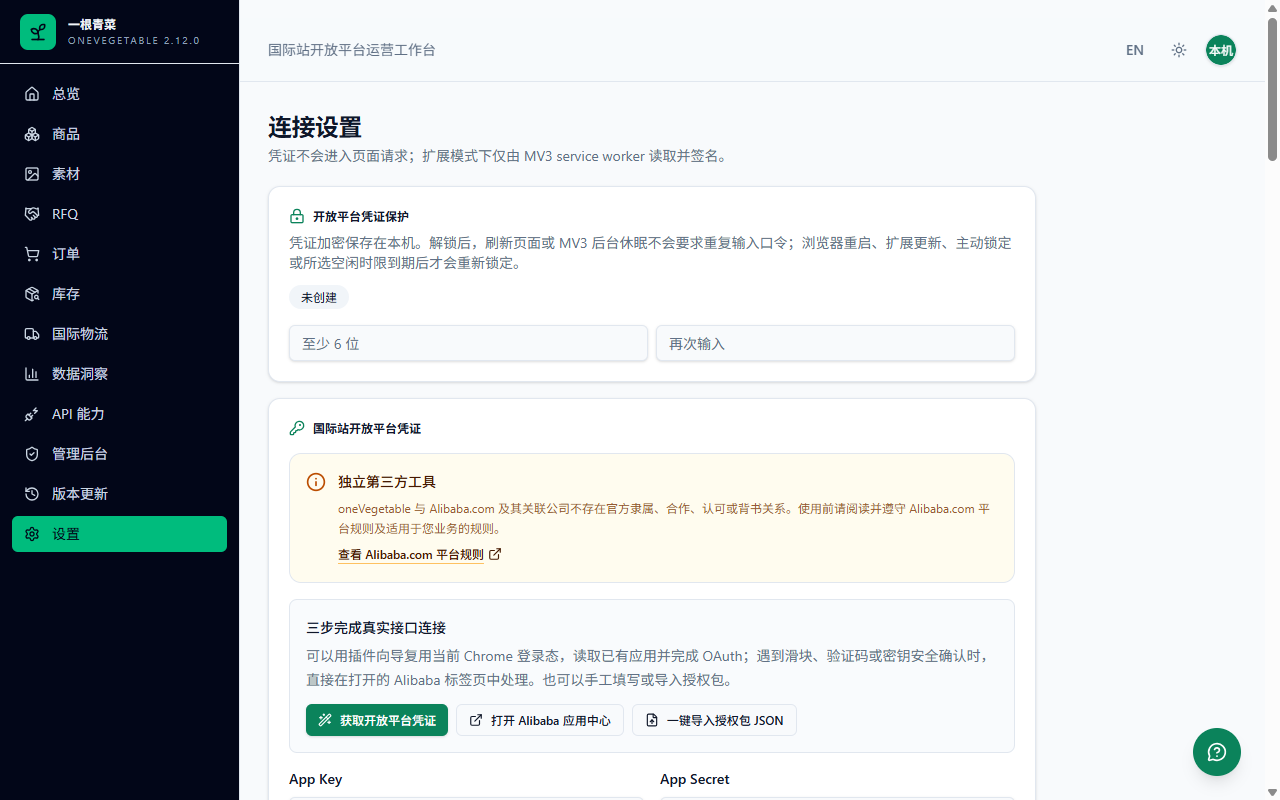
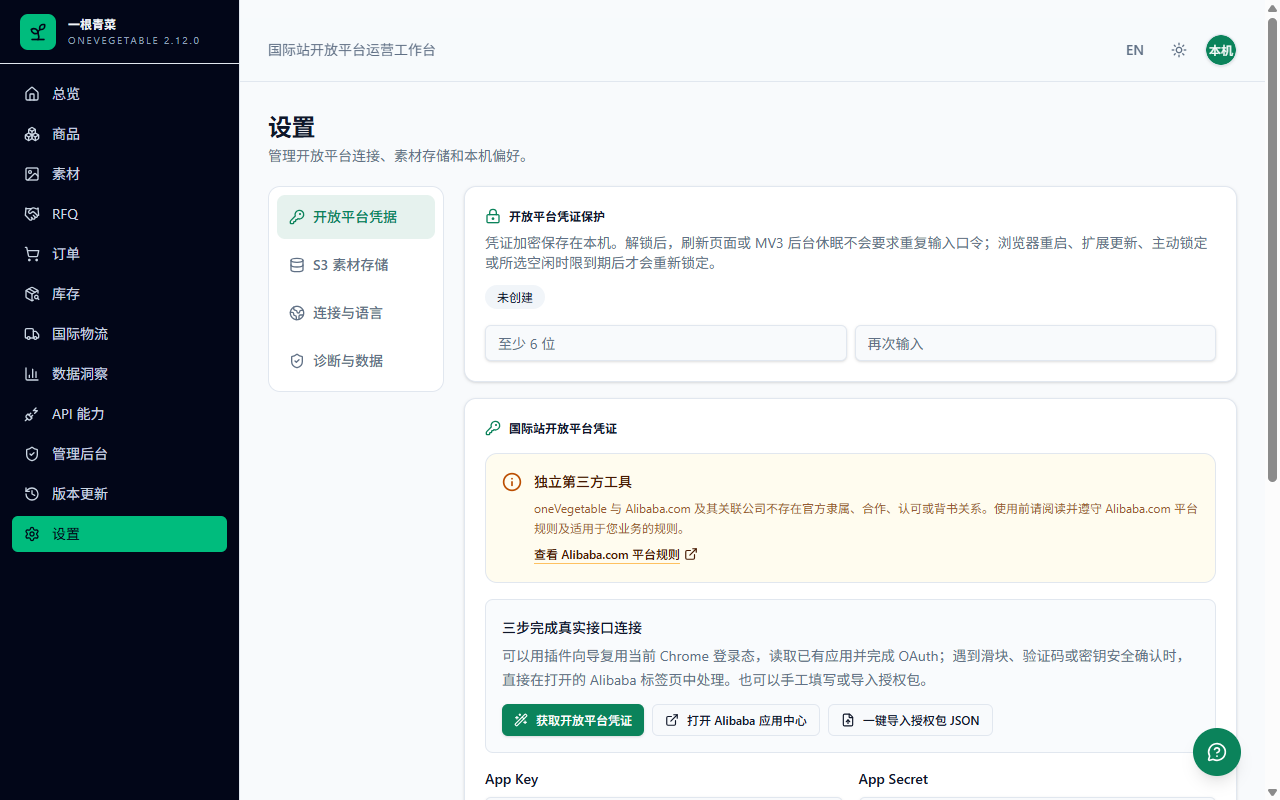
chore(release): refresh 2.12.0 package and settings screenshots

diff --git a/docs/release-2.12.0-readiness.md b/docs/release-2.12.0-readiness.md
@@ -1,10 +1,11 @@
 # 2.12.0 发布准备
 
-检查日期：2026-09-23。范围：列表、素材、库存与编辑体验优化。
+检查日期：2026-09-23。范围：列表、素材、库存与编辑体验优化，以及设置页分区排版。
 
 ## 功能与安全边界
 
 - 统一列表搜索、筛选弹窗、三态选择、列显隐/排序与行操作菜单；列偏好保存在本机，选中记录不持久化。
+- 设置页按开放平台凭据、S3 存储、连接与语言、诊断与数据分区，切换保留未保存输入；整理双列表单、折叠导入规则，并修复初始化数据迟到覆盖输入的问题。中英文设置截图同步更新。
 - 库存成为独立工作区；产品分按可见区域加载；商品上下架回执统一进入任务中心。
 - “素材”包括图片与视频，复用全屏预览和信息面板；图片仅点缩略图或预览操作才打开，服务端分页支持未知总数。
 - 编辑不再自动保存或恢复商品/RFQ 本地草稿；离开有修改的表单需要确认。旧编辑数据不读取、不自动删除；批量队列、平台草稿与任务不受影响。
@@ -26,13 +27,14 @@
 - [x] 六个 workspace package、扩展 Manifest 来源和双语版本说明统一为 2.12.0。
 - [x] Worker/D1：6 文件、21 项本地隔离测试通过。
 - [x] 2.11.0 → 2.12.0：17 项升级检查通过。
-- [x] Windows `pnpm check`：格式、Lint（0 error / 28 warning）、i18n、契约漂移、134 项离线审计、50/50 replay、类型、263 文件 / 1,638 项单测及三端构建通过。
-- [x] 最终 Web/正式 MV3：91 项通过；BFF replay：2 项通过；Node 凭据双语：2 项通过。模板完整操作链另连续运行 5 次通过。
+- [x] 首次 Windows `pnpm check`：格式、Lint（0 error / 28 warning）、i18n、契约漂移、134 项离线审计、50/50 replay、类型、263 文件 / 1,638 项单测及三端构建通过。
+- [x] 设置页更新后重新执行格式、Lint（0 error / 28 warning）、i18n、类型检查、263 文件 / 1,640 项全量单测、Web/正式扩展构建及包体/合规检查，全部通过。
+- [x] 设置页更新后的最终 Web/正式 MV3：92 项通过；Node 凭据双语重新运行 2 项通过；此前 BFF replay：2 项通过。模板完整操作链另连续运行 5 次通过。
 - [x] 正式 ZIP、校验和、无凭据/Mock/源码映射扫描及商店合规通过；额外扫描 `.env` / `.env.free` 的四个本机账号值，没有写入包中。
 - [x] 更新八张中英文截图并逐张查看：1280×800，来自未配置账号的正式扩展，不使用业务 Mock 冒充，不包含账号或密钥。
 - [x] 发布准备已分批提交。合并目标为 `staging` / `master`；远端同步及 CI 状态以本次交付的分支引用为准，不生成正式 Tag。
 
[2 lines of base64/hex data omitted]
 
 发布前修正了两处回归：模板弹窗关闭时过早重置标题，导致退场 DOM 被误当成新弹窗；现在下次打开才重置，测试使用精确定位及真实点击，保留卸载断言。Node 凭据 E2E 同步使用改名后的“导入图片素材”，中英文两项均已通过。能力目录更换用户文案后同步了旧断言，并补充英文检查；修正后完整 91 项重新通过。未增加超时或跳过测试。
 

diff --git a/store-listing/en.md b/store-listing/en.md
@@ -24,6 +24,7 @@ Key features:
 - Inventory, product, gallery and video checks explain delayed platform updates. An acknowledged request may still read back old values; uncertain results require verification, not automatic resubmission or a promised synchronization time.
 - Follow a four-step visual journey through developer registration, platform review, application setup, and OAuth, with in-page guidance that does not read submitted registration details.
 - Reuse the current Alibaba sign-in to obtain credentials from an existing application.
+- Manage credentials, S3 storage, connections, language, diagnostics and data in separate settings sections. Switching sections preserves unsaved input; import rules expand on demand.
 - Dismiss the startup vault-unlock prompt, and inspect or clear local data, session diagnostics, guarded product-mutation and video-upload tasks, social-backend device authorization and optional host grants.
 
 The extension runs no advertising or analytics service. The credential assistant accesses only the known Alibaba Application Center and OAuth tabs after the user starts it, and it neither collects the website password nor bypasses human verification. Credentials are encrypted on the user's device with a user passphrase; extension content scripts cannot access storage and the passphrase is not stored. Unlock material is retained only in current Chrome-session memory so page refreshes and MV3 worker dormancy do not require another prompt; it is cleared by browser restart, extension update/reload, explicit locking, or the selected idle timeout. Requests are sent only after a user action: guarded platform drafts, new-product publishing, product-content updates, product listing/unlisting, product-group creation, gallery group management, image upload, and external-image transfer are enabled after real-account validation, while unverified Alibaba write operations are blocked before network access. Product-content and display changes record a minimal local task before sending, then read Schema or the product list back to verify the final state; listing/unlisting also supports explicit recovery to the original state.

diff --git a/store-listing/zh_CN.md b/store-listing/zh_CN.md
@@ -24,6 +24,7 @@
 - 库存、商品任务、图库传输和视频核对提供同步延迟提示：平台受理后回读可能仍为旧值，结果不明时先核对，不自动重复提交，也不承诺固定生效时间；
 - 通过四步图文引导了解开发者注册、平台审核、应用配置和 OAuth 授权，并在 Alibaba 页面获得不读取资料内容的操作提示；
 - 复用当前 Alibaba 登录态，从已有应用获取开放平台凭证；
+- 在分区设置页管理开放平台凭据、S3 存储、连接与语言、诊断与数据；切换分区保留未保存输入，导入规则按需展开；
 - 启动时可关闭保险库解锁提示，并查看或清除本地数据、会话诊断、受保护的商品写入及视频上传任务、社交后端设备授权和额外主机权限。
 
 扩展不会运行广告或分析服务。凭证向导仅在用户主动启动后访问本次已知的 Alibaba 应用中心与 OAuth 标签页，不收集网站密码或绕过人机验证。凭证使用用户口令加密保存在本机，内容脚本无法读取存储，口令不保存；解锁材料仅保留在当前 Chrome 会话内存中，使页面刷新和 MV3 后台休眠后无需重复输入，浏览器重启、扩展更新/重载、主动锁定或所选空闲时限到期后清除。真实请求只在用户主动操作后发起：受保护的平台草稿、正式发品、商品内容更新、商品上下架、商品分组新增、图库分组管理、图片上传和外部图片转存已完成验收并开放；未完成真实验收的 Alibaba 写操作仍在扩展后台出网前阻断。商品内容更新和上下架会先保存最小化本地任务，再通过 Schema 或商品列表回读确认最终状态；上下架还允许用户明确恢复到操作前状态。
